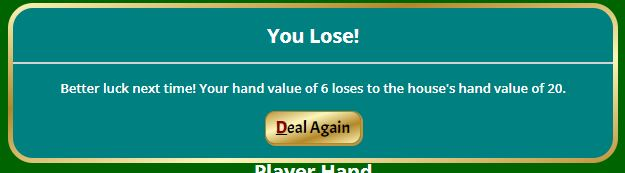
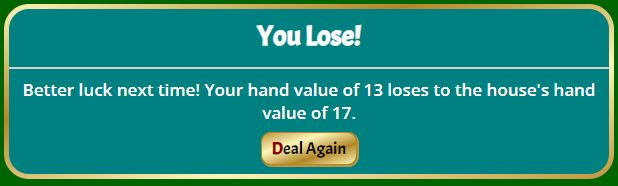
update readme screenshots to show new font and add missing results modals

Changed region(s): [[0.0, 0.0, 1.0, 1.0], [0.3997, 0.1156, 0.5841, 0.2601]]

diff --git a/README.md b/README.md
@@ -173,7 +173,7 @@ The card table consists of multiple elements and provides a space for the game l
 #### ***Scoreboard:***
   * The scoreboard keeps a tally of all wins, losses, and draws. 
   * The user can reset the tally at any time with the "Clear Tally" button.
-  * It gives the user something to gauge their progress without a pot of fun money (See future developments.). 
+  * It gives the user something to gauge their progress without a pot of fun money (See future developments.).   
 ![Scoreboard](docs/screenshots/scoreboard.jpg)
 
 ### **Player Side of the Table**
@@ -182,7 +182,7 @@ The player side of the table consists of two sections: -
    *Player controls.
 
 #### ***Player Hand:***
-Underneath the player's hand, there is a running total to help the user make quick decisions based on the total hand value of their current hand.
+Underneath the player's hand, there is a running total to help the user make quick decisions based on the total hand value of their current hand.  
 ![Player Hand](docs/screenshots/player-hand.jpg)
 
 #### ***Player Contols***
@@ -206,11 +206,22 @@ Upon the conclusion of the round, the results display in the same modal with a s
 #### ***Lose:***
 ![Lose Modal](docs/screenshots/lose.jpg)
 
+#### ***Draw:***
+![Draw Modal](docs/screenshots/draw.jpg)
+
 #### ***Player Bust:***
 ![Player Bust](docs/screenshots/player-bust.jpg)
 
 #### ***House Bust:***
 ![House Bust](docs/screenshots/house-bust.jpg)
+
+#### ***House Blackjack:***
+![House Bust](docs/screenshots/house-bj.jpg)
+
+#### ***Player Blackjack:***
+![Player Bust](docs/screenshots/player-bj.jpg)
+
+
 
 ### **Card Positioning**
 Each card is placed on top of the other, spaced 15px from the left edge to the left edge. Fanning the cards allow the suit and value to be visible while minimizing the required space for the hand. It also looks neater and simulates how a casino croupier would deal a hand.  
